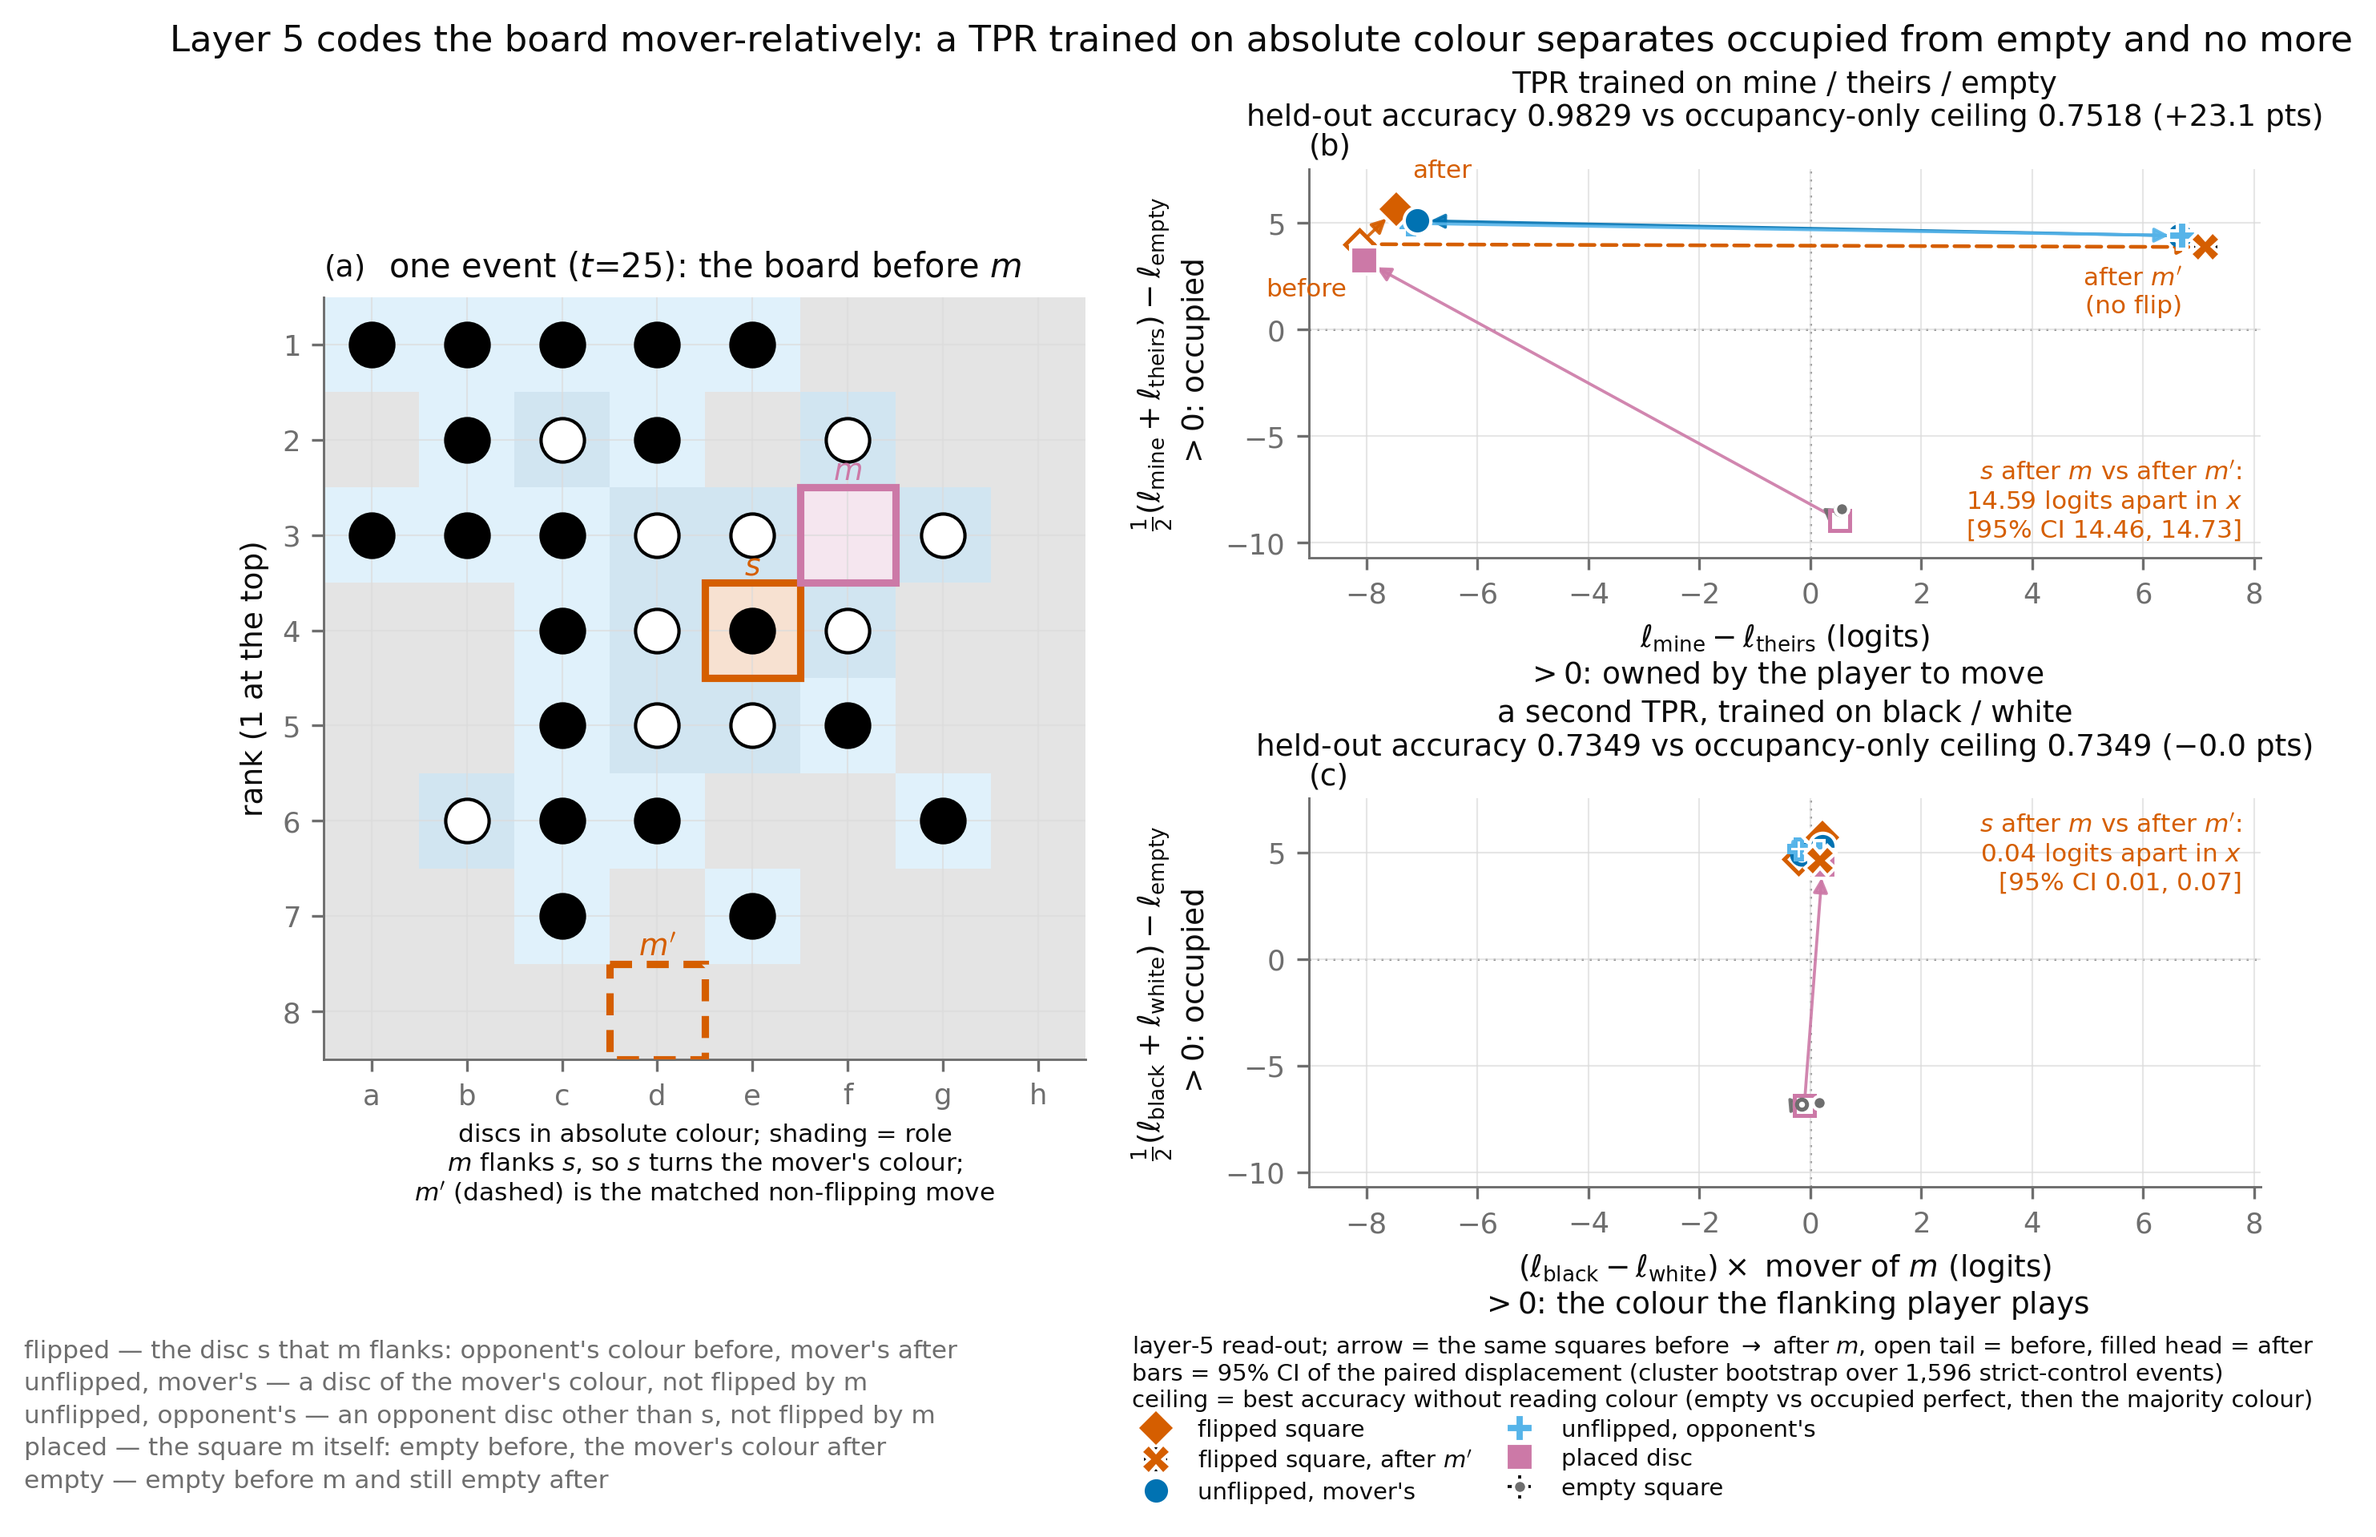
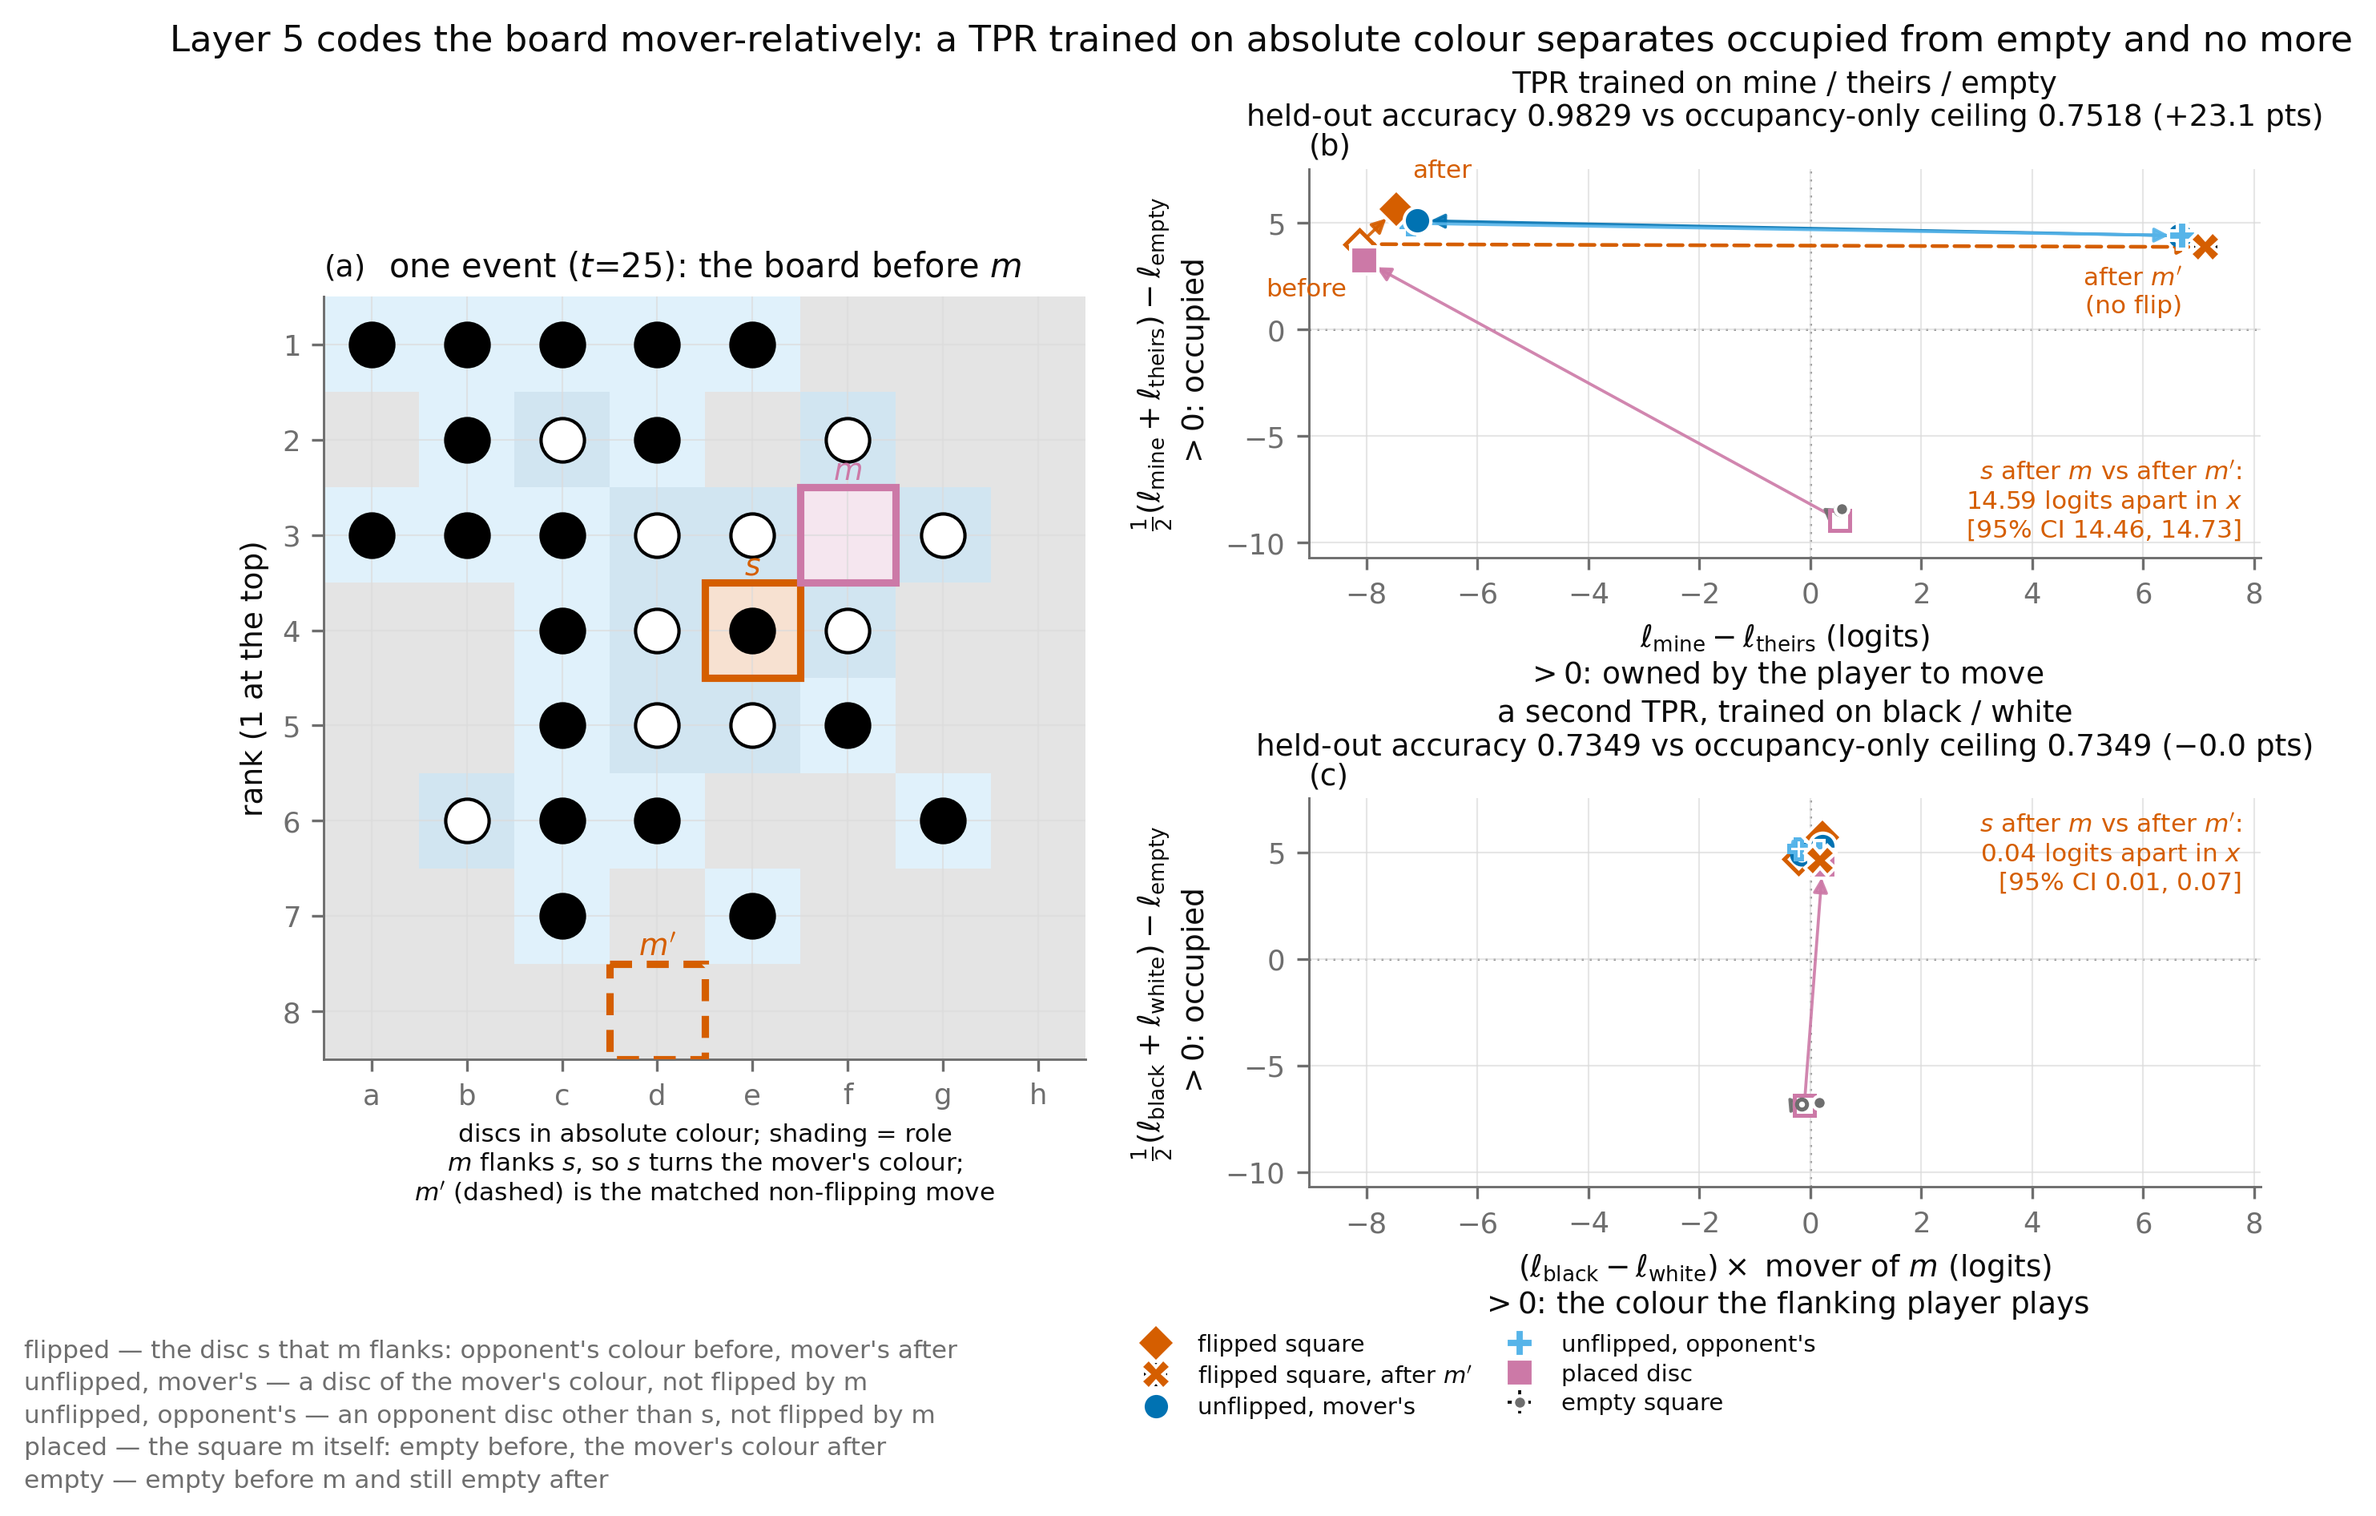
Fig 1's legend title was three lines of prose under the panels
The arrow convention, the CI semantics and the ceiling definition were set
as the figure legend's title, which reads as a paragraph wedged between the
panels and the marker key. All three already live in the study README, so
the legend keeps only the markers.

diff --git a/analysis/bracket_flip/make_figures.py b/analysis/bracket_flip/make_figures.py
@@ -175,13 +175,7 @@ def figure_one(camera_ready: bool) -> None:
         panel_letter(ax, i)
     fig.legend(*native.get_legend_handles_labels(), loc="upper left",
                bbox_to_anchor=(0.44, 0.015), ncol=2, fontsize=7, alignment="left",
-               title=f"layer-{layer} read-out; arrow = the same squares before "
-                     r"$\rightarrow$ after $m$, open tail = before, filled head = after"
-                     "\nbars = 95% CI of the paired displacement (cluster bootstrap over "
-                     f"{int(field.n_events.iloc[0]):,} strict-control events)"
-                     "\nceiling = best accuracy without reading colour (empty vs "
-                     "occupied perfect, then the majority colour)",
-               title_fontsize=7, labelspacing=0.3, columnspacing=1.0)
+               labelspacing=0.3, columnspacing=1.0)
     if not camera_ready:
         fig.suptitle(f"Layer {layer} codes the board mover-relatively: a TPR trained "
                      "on absolute colour separates occupied from empty and no more",
